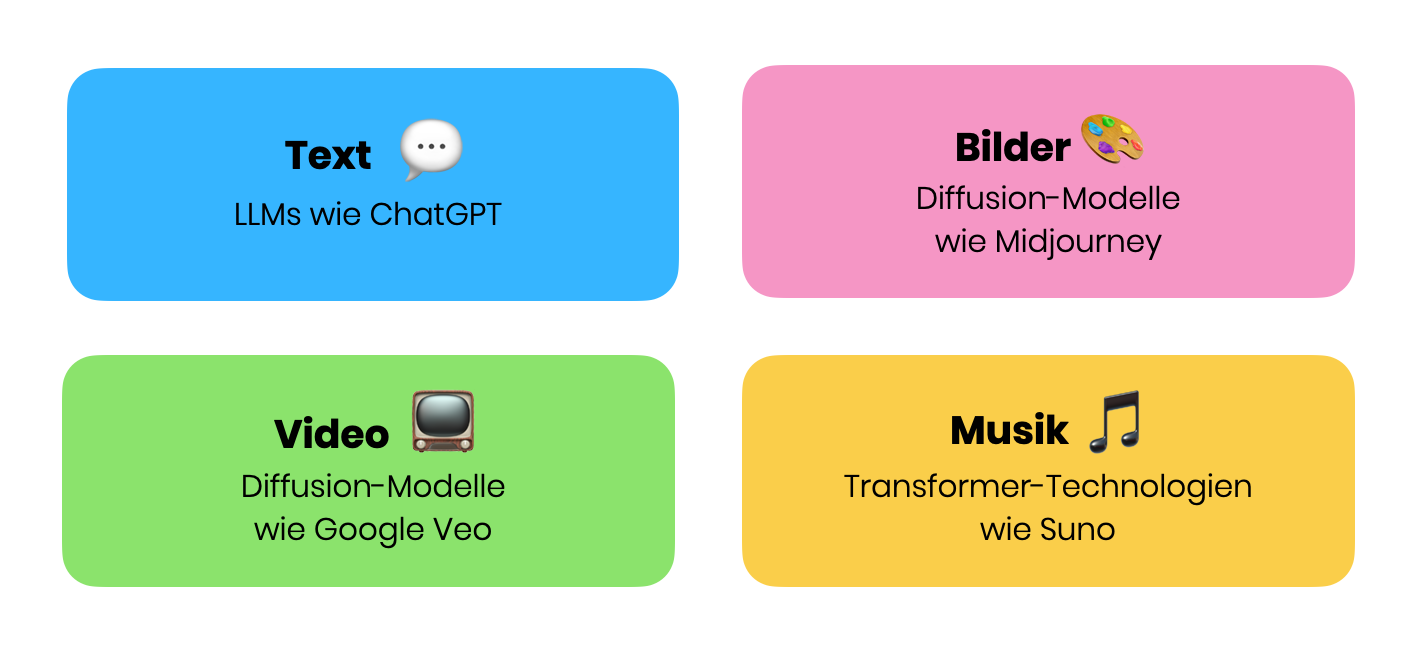
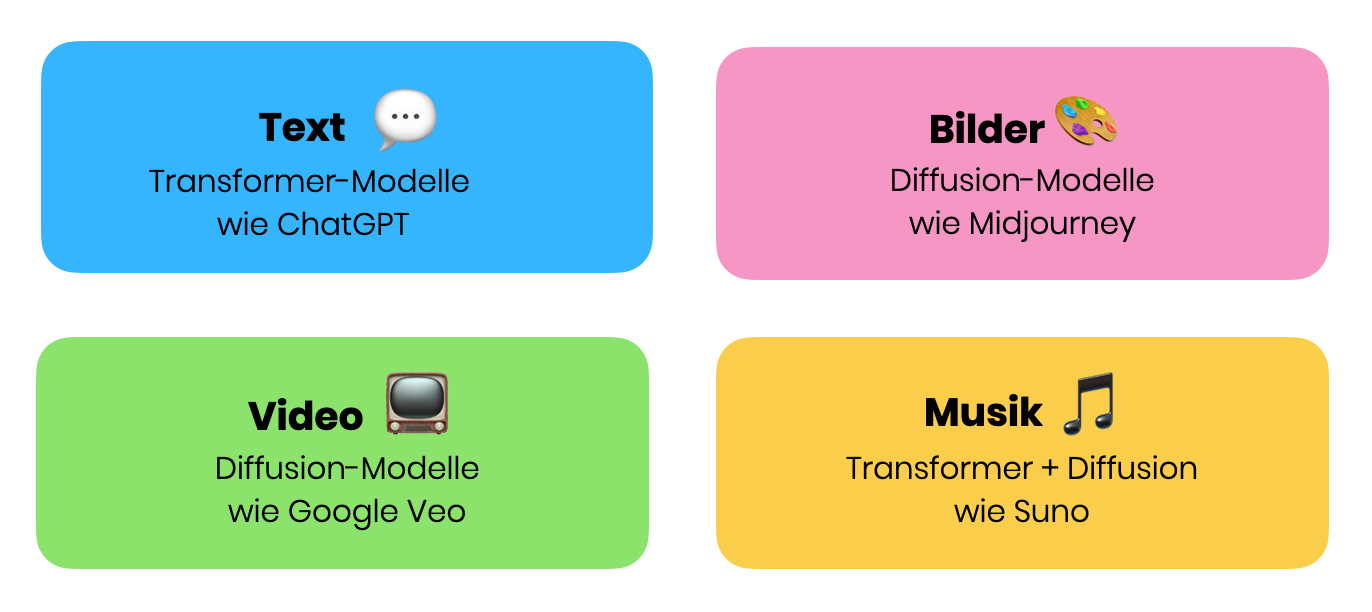
Published multiple files

diff --git a/src/site/notes/02 - Künstliche Intelligenz/0 - Final Check/KI-Sprachtechnologie.md b/src/site/notes/02 - Künstliche Intelligenz/0 - Final Check/KI-Sprachtechnologie.md
@@ -1,0 +1,94 @@
+---
+{"title":"KI-Sprachtechnologie","aliases":null,"tags":null,"gen_ai_anteil":["Claude 60%"],"created":"2026-09-03","updated":"2026-09-06","status":null,"dg-publish":true,"permalink":"/02-kuenstliche-intelligenz/0-final-check/ki-sprachtechnologie/","dgPassFrontmatter":true,"dg-note-properties":{"title":"KI-Sprachtechnologie","aliases":null,"tags":null,"gen_ai_anteil":["Claude 60%"],"created":"2026-09-03","updated":"2026-09-06","status":null}}
+---
+
+
+# KI-Sprachtechnologie
+
+KI-Sprachtechnologie ist der Oberbegriff für alle Verfahren, mit denen Maschinen gesprochene Sprache verarbeiten, verstehen oder erzeugen. Sie ist die Brücke zwischen der Stimme des Menschen und den textbasierten Systemen, mit denen Computer intern arbeiten.
+
+## *Speech* vs. *language*
+
+Das Wort „Sprache“ ist dabei doppeldeutig. Das Englische unterscheidet zwischen _language_ (Sprache als System: Text, Grammatik, Bedeutung) und _speech_ (Sprache als Gesprochenes: Stimme und Audio). „Sprachtechnologie“ kann im Deutschen beides meinen. Dieser Artikel behandelt den engen Sinn, also Speech AI; die Verarbeitung von geschriebenem Text durch große Sprachmodelle ist ein eigenes Feld.
+
+## Die wichtigsten Teilgebiete
+
+**Speech-to-Text (STT)**, auch Automatic Speech Recognition (ASR) genannt, wandelt gesprochene Sprache in geschriebenen Text um. Es ist das bekannteste Teilgebiet – Diktierfunktionen und Meeting-Transkriptionen beruhen darauf. Ein verbreitetes Modell ist Whisper von [[02 - Künstliche Intelligenz/4 - very soon/OpenAI\|OpenAI]].
+
+**Text-to-Speech (TTS)** ist der umgekehrte Weg: Text wird in natürlich klingende Sprache umgesetzt. Moderne Sprachsynthese ist kaum noch von menschlichen Sprechern zu unterscheiden.
+
+**Voice Cloning** bildet die Stimme einer konkreten Person nach, oft schon aus wenigen Sekunden Aufnahme. Wer seine Stimme durch eine Krankheit verliert, kann so weiterhin mit der eigenen Stimme sprechen. Gleichzeitig ist dieselbe Technik aber auch Grundlage für Audio-Deepfakes.
+
+**Sprechererkennung** beantwortet die Frage, wer spricht – zum Beispiel zur Authentifizierung per Stimme oder um in einer Aufnahme mehrere Personen auseinanderzuhalten.
+
+**Emotions- und Tonanalyse** wertet aus, wie etwas gesagt wird: Stimmung, Betonung, Dringlichkeit.
+
+## KI-Sprachtechnologie ist statistische KI
+
+Alle fünf Teilgebiete gehören der statistischen KI an, und zwar teils der prädiktiven, teils der generativen KI.
+
+![Statistische KI Diagramm.png](/img/user/02%20-%20K%C3%BCnstliche%20Intelligenz/0%20-%20Final%20Check/Bilder/Statistische%20KI%20Diagramm.png)
+
+| Teilgebiet               | Zuhause im Baum                         |
+| ------------------------ | --------------------------------------- |
+| Text-to-Speech (TTS)     | GenAI → Audio                           |
+| Voice Cloning            | GenAI → Audio                           |
+| Sprechererkennung        | Prädiktive KI → Klassifikation          |
+| Emotions- und Tonanalyse | Prädiktive KI → Klassifikation          |
+| Speech-to-Text (STT)     | teils Prädiktive KI, teils GenAI → Text |
+
+Die Faustregel dahinter: Kommt etwas _Neues_ heraus (eine Stimme), ist es GenAI. Kommt eine _Einordnung_ heraus (wer, welche Stimmung), ist es prädiktiv.
+
+STT ist der Mischling, weil beides zutrifft: Es ordnet ein, was gesagt wurde, aber das Ergebnis ist erzeugter Text. Modelle wie Whisper sind technisch genauso gebaut wie Übersetzer, also generativ. 
+
+## Die wichtigsten Anwendungen
+
+Die Teilgebiete sind Bausteine. Was man im Alltag als Produkt erlebt, kombiniert meist mehrere davon.
+
+### Diktieren statt Tippen
+
+Man spricht, der Computer schreibt – in jedes beliebige Textfeld, ob E-Mail, Chat oder Dokument. Moderne Tools glätten dabei gleich den Text, entfernen Füllwörter und setzen Satzzeichen. Im Kern STT; neuere Tools ergänzen ein [[02 - Künstliche Intelligenz/5 - soon (veröffentlicht)/LLMs (Large Language Models)\|Sprachmodell]] zur Nachbearbeitung.
+
+**Beispiele:** [[02 - Künstliche Intelligenz/6 - later/Wispr Flow\|Wispr Flow]], Apples Diktierfunktion, Dragon
+
+ 👉 Mehr zu [[02 - Künstliche Intelligenz/6 - later/Speech-to-Text (STT)\|Speech-to-Text (STT)]]
+
+### Meeting-Assistenten
+
+Ein Programm hört bei Videokonferenzen mit, ordnet die Beiträge den Teilnehmern zu und erstellt danach eine Zusammenfassung mit den vereinbarten Aufgaben. Kombiniert STT, Sprecherzuordnung und ein Sprachmodell.
+
+**Beispiele:** Otter, Fireflies, Microsoft Teams Copilot
+
+👉 Mehr zu [[02 - Künstliche Intelligenz/4 - very soon/Meeting Intelligence\|Meeting Intelligence]]
+
+### Sprachassistenten und Voice Agents
+
+Man spricht mit dem System wie mit einem Menschen und bekommt eine gesprochene Antwort, sei es auf dem Handy, im Sprachmodus eines Chatbots oder bei einem Telefonbot im Kundenservice. Heute meist eine Kette aus STT, Sprachmodell und TTS.
+
+**Beispiele:** Siri, Alexa
+
+### Übersetzen und Synchronisieren
+
+Gesprochene Sprache wird in Echtzeit gedolmetscht oder ein Video nachträglich in eine andere Sprache übertragen, wobei die Originalstimme erhalten bleiben kann. Kombiniert STT, Übersetzung, TTS und oft Voice Cloning.
+
+**Beispiele:** Google Translate, ElevenLabs, HeyGen
+
+### Barrierefreiheit
+
+Screenreader lesen Menschen mit eingeschränktem Sehvermögen den Bildschirm vor (TTS), Live-Transkription macht Gespräche für Hörgeschädigte lesbar (STT), und wer seine Stimme durch Krankheit verliert, kann sie vorher aufnehmen und weiter nutzen (Voice Cloning).
+
+**Beispiele:** Apple Personal Voice, Live-Untertitel in Teams und Zoom
+
+### Stimme als Passwort
+
+Beim Telefonbanking erkennt das System den Anrufer an der Stimme. Reine Sprechererkennung, die allerdings durch Voice Cloning zunehmend unter Druck gerät und als alleiniges Sicherheitsmerkmal nicht mehr ausreicht.
+
+## Was bringt die Zukunft?
+
+**Sprache ohne Umweg über Text.** Neue Modelle verarbeiten Audio direkt, ohne es erst in Text zu verwandeln. Das macht Sprachassistenten schneller und erhält, was bei einer Transkription verloren geht: Tonfall, Zögern, Ironie. Die bisherige Kette aus STT, Sprachmodell und TTS beginnt sich damit aufzulösen. Erste Sprachassistenten arbeiten heute schon so.
+
+**Sprechen mit jedem, in jeder Sprache.** Ein Ohrhörer, der ein Gespräch in Echtzeit dolmetscht, und zwar mit der eigenen Stimme des Gegenübers, nicht mit einer Computerstimme. Die Bausteine dafür existieren alle schon, und erste Produkte übersetzen Telefonate bereits mit der Originalstimme. Was noch fehlt, ist die Zuverlässigkeit im Alltag.
+
+**Stimme statt Benutzeroberfläche.** Wenn Maschinen Sprache so gut verstehen wie Menschen, braucht vieles keinen Bildschirm und keine Tastatur mehr. Ein Assistent, der Termine vereinbart, für einen anruft und Ergebnisse mündlich berichtet, ist technisch schon möglich; ob wir das wollen, ist eine andere Frage.
+
+**Die Kehrseite wächst mit:** Je perfekter Stimmen nachgebildet werden können, desto wichtiger wird es, echte von gefälschten zu unterscheiden.

diff --git a/src/site/notes/02 - Künstliche Intelligenz/0 - Final Check/Klassische KI.md b/src/site/notes/02 - Künstliche Intelligenz/0 - Final Check/Klassische KI.md
@@ -1,0 +1,79 @@
+---
+{"title":"Klassische KI","aliases":["klassische KI","symbolische KI","regelbasierte KI"],"tags":null,"gen_ai_anteil":["Gemini 20%","Claude 20%"],"created":"2026-04-07","updated":"2026-06-06","status":null,"dg-publish":true,"permalink":"/02-kuenstliche-intelligenz/0-final-check/klassische-ki/","dgPassFrontmatter":true,"dg-note-properties":{"title":"Klassische KI","aliases":["klassische KI","symbolische KI","regelbasierte KI"],"tags":null,"gen_ai_anteil":["Gemini 20%","Claude 20%"],"created":"2026-04-07","updated":"2026-06-06","status":null}}
+---
+
+# Klassische KI
+
+> [!info] **Synonyme und verwandte Begriffe**: 
+> symbolische KI, regelbasierte KI, „Good Old-Fashioned AI“ (GOFAI), wissensbasierte Systeme
+
+Viele Jahrzehnte bevor ChatGPT das Licht der Welt erblickte und einen ungeahnten KI-Hype auslöste, gab es KI schon als Forschungsfeld und entwickelte sich ohne große öffentliche Aufmerksamkeit. Ins Leben gerufen wurde sie 1956 auf der Dartmouth Conference, als sich einige Größen der Computerwissenschaften trafen und John McCarthy ihr mit dem Begriff „Artificial Intelligence“ offiziell ihren Namen gab.
+
+Die **klassische künstliche Intelligenz** basiert auf der Idee, dass Intelligenz durch **explizite Regeln und Symbole** beschrieben werden kann.
+
+- Wissen wird **formal repräsentiert** (z. B. als Regeln, Fakten, Logik)
+- **Wenn-Dann-Regeln** (oder systematisches Durchsuchen vieler Möglichkeiten)
+- Schlussfolgerungen erfolgen durch logisches Ableiten
+
+
+Typische Beispiele sind
+
+- Expertensysteme (z. B. medizinische Diagnosesysteme)
+- Logikbasierte Programme 
+- Schach (klassische Schachprogramme wie Deep Blue, das 1997 Kasparow schlug)
+
+## Formal repräsentiert
+
+In Abhandlungen über klassische KI heißt es oft, Wissen wird formal oder explizit repräsentiert. Aber was bedeutet das überhaupt?
+
+Explizit heißt: Das Wissen steht lesbar im System. Man kann hineinschauen und findet Zeile für Zeile, was das Programm „weiß“: Fakten wie „Tweety ist ein Vogel“ und Regeln wie „Vögel können fliegen“. Ein Mensch hat sie hingeschrieben, ein Mensch kann sie lesen, prüfen und korrigieren.
+
+Formal heißt hier nicht „förmlich“, sondern „auf die Form bezogen“. Das Wissen ist in einer präzisen Kunstsprache notiert, in der allein die Gestalt der Zeichen festlegt, was daraus folgt. Aus „Alle Vögel fliegen“ und „Tweety ist ein Vogel“ ergibt sich „Tweety fliegt“ – nach dem Muster „Alle A sind B, x ist A, also x ist B“. Das Muster funktioniert für beliebige A, B und x. Was ein Vogel ist, muss dafür niemand wissen.
+
+Genau das macht den Ansatz für Computer tauglich: Ein Rechner versteht nichts, er kann nur Zeichen vergleichen und nach Regeln umbauen. Ist das Wissen formal notiert, wird Schlussfolgern zu einem rein mechanischen Vorgang.
+
+Ein medizinisches Expertensystem arbeitet so: „Wenn Fieber und Husten und Rasselgeräusche, dann Verdacht auf Lungenentzündung.“ Ein Arzt würde dasselbe eher als „kommt drauf an“ mit vielen Wenn und Aber formulieren. Formalisieren heißt, dieses „kommt drauf an“ in eindeutige Bedingungen zu übersetzen – oder wegzulassen.
+
+Bei Schach gelingt das restlos. Bei Sprache, wie wir gleich sehen werden, nicht.
+
+## Einordnung: Stärken und Grenzen der regelbasierten KI 
+
+### Stark bei klaren, eindeutigen Regeln
+
+Die klassische KI spielt ihre Stärke immer dann aus, wenn sich das Vorgehen bei einem Problem vollständig in Regeln fassen lässt.
+
+Schach ist ein hochkomplexes Spiel, doch seine Regeln sind klar, eindeutig und lassen sich auf einer Seite zusammenfassen. 
+
+Die klassischen Schachprogramme – bis hin zu Deep Blue, das 1997 Weltmeister Kasparow schlug – funktionierten genau so: Menschen gaben die Regeln vor, der Computer rechnete Millionen möglicher Züge durch.
+
+### Komplexität von Sprachen: klassische KI stößt an ihre Grenzen
+
+Sprache hat Regeln – ganze Bibliotheken voll: Grammatik, Rechtschreibung, Syntax. 
+
+Die klassische KI hat jahrzehntelang versucht, Sprache über Regeln zu knacken, und ist daran  gescheitert. 
+
+#### Der Grund: Sprache lässt sich durch Regeln nicht vollständig beschreiben.
+
+Ein paar Beispiele machen das anschaulich:
+
+- „Bank“ – Geldinstitut oder Sitzgelegenheit? Keine Grammatikregel sagt es einem, nur der Kontext.
+- „Ich sah den Mann mit dem Fernglas.“ – Hatte ich das Fernglas oder er? Grammatisch beides korrekt.
+- „Das ist ja mal eine tolle Idee.“ – Ernst gemeint oder Ironie? Hängt an Tonfall, Situation, Vorgeschichte.
+- „Er hat den Löffel abgegeben.“ – Wörtlich oder gestorben? Eine Redewendung, die man einfach kennen muss.
+
+Dazu kommen Dialekte, Slang, neue Wörter, Tippfehler, unvollständige Sätze, Anspielungen. 
+
+Selbst wenn man all das in Regeln fassen wollte – niemand hat es je geschafft. 
+
+Die Regeln, die Menschen beim Sprechen tatsächlich anwenden, sind zu viele, zu vage, zu kontextabhängig und zu ausnahmenreich, als dass sie sich vollständig aufschreiben ließen. 
+
+#### Das Aufkommen eines neuen [[02 - Künstliche Intelligenz/5 - soon (veröffentlicht)/Paradigma (Denkmodell)\|Paradigmas]] 
+
+Genau an dieser Stelle setzt die statistische KI an: Sie lernt Sprache nicht über Regeln, sondern aus Milliarden von Beispielen.
+
+Die klassische KI dominierte die Forschung von den **50er bis Ende der 80er Jahre**.
+
+Danach gewannen [[02 - Künstliche Intelligenz/0 - Final Check/Statistische KI\|statistische KI]] und mit ihr [[02 - Künstliche Intelligenz/5 - soon (veröffentlicht)/Machine Learning (ML)\|Machine Learning]] zunehmend an Bedeutung. Zwar gab es mit dem **Perceptron** schon 1958 ein erstes lernfähiges neuronales Netz (die Grundidee reicht sogar bis 1943 zurück), und es wurde in den 80ern weiterentwickelt; jedoch kam der breite Durchbruch erst 2012 mit [[02 - Künstliche Intelligenz/5 - soon (veröffentlicht)/Machine Learning (ML)#Deep Learning\|Deep Learning]].
+
+
+

diff --git a/src/site/notes/02 - Künstliche Intelligenz/0 - Final Check/Statistische KI.md b/src/site/notes/02 - Künstliche Intelligenz/0 - Final Check/Statistische KI.md
@@ -1,0 +1,57 @@
+---
+{"title":"Statistische KI","aliases":["statistische KI"],"tags":null,"gen_ai_anteil":["Gemini 20%","Claude 40%"],"created":"2026-04-07","updated":"2026-06-16","status":null,"dg-publish":true,"permalink":"/02-kuenstliche-intelligenz/0-final-check/statistische-ki/","dgPassFrontmatter":true,"dg-note-properties":{"title":"Statistische KI","aliases":["statistische KI"],"tags":null,"gen_ai_anteil":["Gemini 20%","Claude 40%"],"created":"2026-04-07","updated":"2026-06-16","status":null}}
+---
+
+# Statistische KI
+
+> [!info] Synonyme und verwandte Begriffe: Datengetriebene KI, subsymbolische KI
+
+Die **statistische KI** begegnet uns heute überall – in der Sprachverarbeitung, der Bilderkennung, hinter Empfehlungssystemen.
+
+Sie beschreibt Ansätze der künstlichen Intelligenz, die auf **Wahrscheinlichkeit, Statistik und Datenanalyse** basieren – im Gegensatz zur [[02 - Künstliche Intelligenz/0 - Final Check/Klassische KI\|klassischen KI]].
+
+- Systeme lernen aus **Daten statt aus festen Regeln**
+- Modelle erkennen **Muster, Korrelationen und Wahrscheinlichkeiten**
+- Entscheidungen werden nicht strikt logisch, sondern nach Wahrscheinlichkeiten getroffen
+## Entstehung
+
+- Die mathematischen Grundlagen (Wahrscheinlichkeitsrechnung) reichen bis ins 17. Jahrhundert zurück
+- Verstärktes Interesse an statistischen Methoden in der KI ab den späten 1980er Jahren, als die klassische KI an ihre Grenzen stieß
+- Starker Aufschwung: **1990er bis heute**
+- Durchbruch: 2012 mit [[02 - Künstliche Intelligenz/5 - soon (veröffentlicht)/Machine Learning (ML)#Deep Learning\|Deep Learning]]
+
+## Warum überhaupt ein neues [[Paradigma\|Paradigma]]?
+
+Die klassische KI hat eine Grundvoraussetzung: Jemand muss das notwendige Wissen als konkrete Regeln ausformulieren. Das ist jedoch nicht immer möglich. Menschen erkennen Gesichter, verstehen Sprache und deuten Tonfall, aber sie können nicht sagen, wie. Das Wissen ist da, nur nicht in einer Form, die sich in Regeln übersetzen ließe. Die Expertensysteme der 1980er Jahre scheiterten genau daran: Selbst dort, wo Fachleute ihr Wissen zu Papier brachten, blieben die Regelwerke lückenhaft und versagten bei allem, was nicht abgedeckt war. Am Beispiel Sprache ist das im Artikel [[02 - Künstliche Intelligenz/0 - Final Check/Klassische KI#\|Klassische KI]] ausgeführt.
+
+Die statistische KI dreht das Vorgehen um. Statt dass ein Mensch die Regeln vorgibt, bekommt das System Beispiele und findet die Muster selbst. Was niemand formulieren konnte, muss so niemand mehr formulieren.
+## Voraussetzungen
+
+Die datengetriebene KI konnte ihren Siegeszug keinen Augenblick früher antreten, denn ermöglicht wurden ihr immenser Fortschritt erst durch:
+
+-  Verfügbarkeit großer Datenmengen („Big Data“)
+- Rechenleistung, um diese Datenmengen verarbeiten zu können („Compute“)
+- [[02 - Künstliche Intelligenz/5 - soon (veröffentlicht)/Algorithmus\|Algorithmen]] und Trainingsmethoden (z.B. der Durchbruch beim Training tiefer neuronaler Netze), um die vorhandenen Daten und die gegebene Rechenleistung optimal zu nutzen.
+
+![3 Voraussetzungen für statistische KI.png](/img/user/02%20-%20K%C3%BCnstliche%20Intelligenz/3%20Voraussetzungen%20f%C3%BCr%20statistische%20KI.png)
+
+
+## Klassische vs. statistische KI
+
+| Aspekt              | Klassische KI       | Statistische KI              |
+| ------------------- | ------------------- | ---------------------------- |
+| Ansatz              | Regeln & Logik      | Daten & Wahrscheinlichkeiten |
+| Wissen              | explizit modelliert | aus Daten gelernt            |
+| Flexibilität        | begrenzt            | hoch                         |
+| Nachvollziehbarkeit | hoch                | gering                       |
+
+
+## Hat die statistische KI die klassische verdrängt?
+
+Nein – heutige Anwendungen kombinieren häufig beides: 
+
+Das Sprachmodell versteht und formuliert (statistisch), während klassische Komponenten rechnen, nachschlagen oder Regeln durchsetzen (regelbasiert). Ein Chatbot, der zum Recherchieren eine Datenbank abfragt oder zum Rechnen Code ausführt, ist genau so ein Hybrid.
+
+## 📖 Weiterlesen
+
+- In diesem Zusammenhang fällt auch oft der Begriff [[02 - Künstliche Intelligenz/5 - soon (veröffentlicht)/Machine Learning (ML)\|Machine Learning (ML)]] als praktische Umsetzung der statistischen KI. [[02 - Künstliche Intelligenz/5 - soon (veröffentlicht)/Machine Learning (ML)#Neuronale Netze\|Neuronale Netze]] sind eine Unterkategorie von ML.

diff --git a/src/site/notes/02 - Künstliche Intelligenz/5 - soon (veröffentlicht)/Kahneman und KI.md b/src/site/notes/02 - Künstliche Intelligenz/5 - soon (veröffentlicht)/Kahneman und KI.md
@@ -10,11 +10,11 @@ Der Vergleich ist nicht ganz zutreffend, denn KI denkt nicht wirklich im menschl
 
 Nützlich finde ich diese Analogie aber dennoch, denn genau wie Menschen spukt die KI mit hoher Geschwindigkeit und großem Selbstbewusstsein Behauptungen aus, die sich bei genauerer Betrachtung als schlichtweg falsch erweisen. 
 
-Das trifft vor allem auf [[02 - Künstliche Intelligenz/3 - Work on tomorrow/Statistische KI\|statistische KI]] zu. [[02 - Künstliche Intelligenz/5 - soon (veröffentlicht)/LLMs (Large Language Models)\|LLMs]] haben kein Verständnis von Wahrheit, sondern liefern vielmehr *wahrscheinlich* richtige Antworten auf Grundlage der Daten, mit denen sie trainiert wurden. Dabei arbeiten sie zwar blitzschnell, man könnte fast sagen intuitiv, unterliegen aber auch logischen Fehlschlüssen: 
+Das trifft vor allem auf [[02 - Künstliche Intelligenz/0 - Final Check/Statistische KI\|statistische KI]] zu. [[02 - Künstliche Intelligenz/5 - soon (veröffentlicht)/LLMs (Large Language Models)\|LLMs]] haben kein Verständnis von Wahrheit, sondern liefern vielmehr *wahrscheinlich* richtige Antworten auf Grundlage der Daten, mit denen sie trainiert wurden. Dabei arbeiten sie zwar blitzschnell, man könnte fast sagen intuitiv, unterliegen aber auch logischen Fehlschlüssen: 
 
 "Wenn es viele behaupten, dann wird es schon wahr sein."
 
-[[02 - Künstliche Intelligenz/3 - Work on tomorrow/Klassische KI\|Klassische KI]] hingegen geht streng logisch Schritt für Schritt vor und liefert im Rahmen ihrer Möglichkeiten zuverlässige Ergebnisse. 
+[[02 - Künstliche Intelligenz/0 - Final Check/Klassische KI\|Klassische KI]] hingegen geht streng logisch Schritt für Schritt vor und liefert im Rahmen ihrer Möglichkeiten zuverlässige Ergebnisse. 
 
 Damit ähnelt sie System 2 - allerdings mit einem wichtigen Unterschied: Diese Form von KI zweifelt nie an den eigenen Denkprozessen; sie folgt den ihr einprogrammierten Regeln blind, ohne die Fähigkeit, die eigenen Prämissen zu hinterfragen. Mit anderen Worten, ihr fehlt die Fähigkeit zur [[02 - Künstliche Intelligenz/Obsidian/Denken auf Papier#Metakognition\|Metakognition]].
 

diff --git a/src/site/notes/02 - Künstliche Intelligenz/5 - soon (veröffentlicht)/Kaninchen-Einstiegszone.md b/src/site/notes/02 - Künstliche Intelligenz/5 - soon (veröffentlicht)/Kaninchen-Einstiegszone.md
@@ -42,7 +42,7 @@ Hier könnte ihr einige meiner Empfehlungen entdecken:
 
 ### Alternative LLMs 🕳🐇
 
- [[02 - Künstliche Intelligenz/Künstliche Intelligenz\|KI]] begleitet uns schon lange, aber erst der Durchbruch der [[02 - Künstliche Intelligenz/5 - soon (veröffentlicht)/LLMs (Large Language Models)\|Large Language Models]] - eine Form der [[02 - Künstliche Intelligenz/3 - Work on tomorrow/Statistische KI\|statistischen KI]] -  hat sie ins Rampenlicht gerückt. [[02 - Künstliche Intelligenz/5 - soon (veröffentlicht)/ChatGPT\|ChatGPT]] hat den Start gemacht und unverkennbar einen Hype ausgelöst. Aber machen wir uns nichts vor: die [[02 - Künstliche Intelligenz/5 - soon (veröffentlicht)/Kritik an GenAI\|Kritik]] an [[02 - Künstliche Intelligenz/1 - Work on now/GenAI\|generativer KI]] ist absolut berechtigt! 
+ [[02 - Künstliche Intelligenz/Künstliche Intelligenz\|KI]] begleitet uns schon lange, aber erst der Durchbruch der [[02 - Künstliche Intelligenz/5 - soon (veröffentlicht)/LLMs (Large Language Models)\|Large Language Models]] - eine Form der [[02 - Künstliche Intelligenz/0 - Final Check/Statistische KI\|statistischen KI]] -  hat sie ins Rampenlicht gerückt. [[02 - Künstliche Intelligenz/5 - soon (veröffentlicht)/ChatGPT\|ChatGPT]] hat den Start gemacht und unverkennbar einen Hype ausgelöst. Aber machen wir uns nichts vor: die [[02 - Künstliche Intelligenz/5 - soon (veröffentlicht)/Kritik an GenAI\|Kritik]] an [[02 - Künstliche Intelligenz/1 - Work on now/GenAI\|generativer KI]] ist absolut berechtigt! 
 
 Ich denke, ihre negativen Seiten sind keineswegs ein inhärentes Merkmal dieser Technologie, sondern vielmehr systemischer Natur: unvermeidliche Begleiterscheinung, wenn wir profit- und machtorientierten Konzernen freies Spiel lassen. Aus diesem Grund recherchiere und teste ich viel, ob wir denn tatsächlich auf diese [[02 - Künstliche Intelligenz/5 - soon (veröffentlicht)/Open Source vs Proprietär\|proprietären]] Riesen angewiesen sind. 
  

diff --git a/src/site/notes/02 - Künstliche Intelligenz/1 - Work on now/GenAI.md b/src/site/notes/02 - Künstliche Intelligenz/1 - Work on now/GenAI.md
@@ -4,9 +4,9 @@
 
 #  Was ist Generative KI?
 
-Generative KI (GenAI) ist eine Form der [[02 - Künstliche Intelligenz/3 - Work on tomorrow/Statistische KI\|statistischen KI]]. Sie basiert auf komplexen Algorithmen, die große Datenmengen analysieren, um Muster zu erkennen und daraus neue Inhalte zu erzeugen – sei es Text, Bilder, Musik oder sogar Videos. 
+Generative KI (GenAI) ist eine Form der [[02 - Künstliche Intelligenz/0 - Final Check/Statistische KI\|statistischen KI]]. Sie basiert auf komplexen Algorithmen, die große Datenmengen analysieren, um Muster zu erkennen und daraus neue Inhalte zu erzeugen – sei es Text, Bilder, Musik oder sogar Videos. 
 
-Im Gegensatz zu [[02 - Künstliche Intelligenz/3 - Work on tomorrow/Klassische KI\|klassischen KI-Systemen]], die auf festen Regeln basieren, kann GenAI kreativ sein: Sie erzeugt neue, gelegentlich sogar originelle Inhalte – basierend auf den Mustern, die sie aus den Trainingsdaten gelernt hat.
+Im Gegensatz zu [[02 - Künstliche Intelligenz/0 - Final Check/Klassische KI\|klassischen KI-Systemen]], die auf festen Regeln basieren, kann GenAI kreativ sein: Sie erzeugt neue, gelegentlich sogar originelle Inhalte – basierend auf den Mustern, die sie aus den Trainingsdaten gelernt hat.
 
 Die Technologie hinter GenAI sind meist neuronale Netze, insbesondere [Transformermodelle](Transformer), die durch [[02 - Künstliche Intelligenz/5 - soon (veröffentlicht)/Machine Learning (ML)\|maschinelles Lernen]] trainiert werden. Die bekannteste Ausprägung sind [[02 - Künstliche Intelligenz/5 - soon (veröffentlicht)/LLMs (Large Language Models)\|Large Language Models (LLMs)]]: Transformermodelle, die mit riesigen Textmengen trainiert wurden und Sprache Wort für Wort erzeugen. Sie stecken hinter Chatbots wie ChatGPT. Bei Bild, Video und Ton kommt ein zusätzliches Verfahren dazu: [[02 - Künstliche Intelligenz/4 - very soon/Diffusion-Modelle\|Diffusion]].
 

diff --git a/src/site/notes/02 - Künstliche Intelligenz/5 - soon (veröffentlicht)/Paradigma (Denkmodell).md b/src/site/notes/02 - Künstliche Intelligenz/5 - soon (veröffentlicht)/Paradigma (Denkmodell).md
@@ -14,7 +14,7 @@ Ein Paradigma ist der grundlegende Denkrahmen, durch den eine Gruppe oder ein Fa
 
 Den heutigen Sinn prägte der Wissenschaftstheoretiker Thomas Kuhn. Sein Punkt: Felder entwickeln sich nicht nur Schritt für Schritt weiter, sondern springen manchmal in einen ganz neuen Denkrahmen. 
 
-Ein Beispiel ist der Wandel von der [[02 - Künstliche Intelligenz/3 - Work on tomorrow/Klassische KI\|klassischen KI]]  (regelbasiert: Wissen und Regeln werden von Hand programmiert) hin zur [[02 - Künstliche Intelligenz/3 - Work on tomorrow/Statistische KI\|statistischen KI]] (das System lernt Muster selbst aus Daten). Dieselbe Aufgabe - eine Maschine soll intelligent handeln -, aber eine völlig andere Grundannahme darüber, woher dieses Können kommt. Genau das ist ein Paradigmenwechsel: Nicht ein Detail ändert sich, sondern die Brille, durch die alles betrachtet wird.
+Ein Beispiel ist der Wandel von der [[02 - Künstliche Intelligenz/0 - Final Check/Klassische KI\|klassischen KI]]  (regelbasiert: Wissen und Regeln werden von Hand programmiert) hin zur [[02 - Künstliche Intelligenz/0 - Final Check/Statistische KI\|statistischen KI]] (das System lernt Muster selbst aus Daten). Dieselbe Aufgabe - eine Maschine soll intelligent handeln -, aber eine völlig andere Grundannahme darüber, woher dieses Können kommt. Genau das ist ein Paradigmenwechsel: Nicht ein Detail ändert sich, sondern die Brille, durch die alles betrachtet wird.
 
 > [!tip] Im Kern  
 > Ein Paradigma ist keine einzelne Methode, sondern die Grundhaltung dahinter - die Spielregeln, die bestimmen, welche Methoden überhaupt sinnvoll erscheinen.

diff --git a/src/site/notes/02 - Künstliche Intelligenz/Künstliche Intelligenz.md b/src/site/notes/02 - Künstliche Intelligenz/Künstliche Intelligenz.md
@@ -23,7 +23,7 @@ Die klassische KI machte den Anfang und dominierte die Forschung von den **1950e
 - Regelbasierte Systeme (Expertensysteme)
 - Such- und Planungsverfahren
 
-👉 Mehr lesen über [[02 - Künstliche Intelligenz/3 - Work on tomorrow/Klassische KI\|Klassische KI]]
+👉 Mehr lesen über [[02 - Künstliche Intelligenz/0 - Final Check/Klassische KI\|Klassische KI]]
 
 ## Statistische KI
 
@@ -35,10 +35,10 @@ Diese Art von künstlicher Intelligenz ist meistens gemeint, wenn von „KI“ d
 
 - Prädiktive KI
 - [[02 - Künstliche Intelligenz/1 - Work on now/GenAI\| Generative KI (GenAI)]] inkl. [[02 - Künstliche Intelligenz/5 - soon (veröffentlicht)/LLMs (Large Language Models)\|LLMs (Large Language Models)]] wie ChatGPT
-- Teils prädiktive, teils generativ: [[02 - Künstliche Intelligenz/3 - Work on tomorrow/KI-Sprachtechnologie\| KI-Sprachtechnologie]] inkl. [[02 - Künstliche Intelligenz/6 - later/Speech-to-Text (STT)\|Speech-to-Text (STT)]]
+- Teils prädiktive, teils generativ: [[02 - Künstliche Intelligenz/0 - Final Check/KI-Sprachtechnologie\| KI-Sprachtechnologie]] inkl. [[02 - Künstliche Intelligenz/6 - later/Speech-to-Text (STT)\|Speech-to-Text (STT)]]
 
 
-👉 Mehr lesen über [[02 - Künstliche Intelligenz/3 - Work on tomorrow/Statistische KI\|Statistische KI]]
+👉 Mehr lesen über [[02 - Künstliche Intelligenz/0 - Final Check/Statistische KI\|Statistische KI]]
 
 
 

diff --git a/src/site/notes/02 - Künstliche Intelligenz/5 - soon (veröffentlicht)/Machine Learning (ML).md b/src/site/notes/02 - Künstliche Intelligenz/5 - soon (veröffentlicht)/Machine Learning (ML).md
@@ -4,7 +4,7 @@
 
 # Was ist Machine Learning (ML)?
 
-Machine Learning (ML) ist keine eigenständige Disziplin, sondern Teil eines größeren Denkmodells: der [[02 - Künstliche Intelligenz/3 - Work on tomorrow/Statistische KI\|statistischen KI]]. Es setzt dieses [[02 - Künstliche Intelligenz/5 - soon (veröffentlicht)/Paradigma (Denkmodell)\|Paradigma]] in konkrete [[02 - Künstliche Intelligenz/5 - soon (veröffentlicht)/Algorithmus\|Algorithmus]] um - Verfahren, die aus Daten lernen, statt nach vorgegebenen Regeln zu arbeiten.
+Machine Learning (ML) ist keine eigenständige Disziplin, sondern Teil eines größeren Denkmodells: der [[02 - Künstliche Intelligenz/0 - Final Check/Statistische KI\|statistischen KI]]. Es setzt dieses [[02 - Künstliche Intelligenz/5 - soon (veröffentlicht)/Paradigma (Denkmodell)\|Paradigma]] in konkrete [[02 - Künstliche Intelligenz/5 - soon (veröffentlicht)/Algorithmus\|Algorithmus]] um - Verfahren, die aus Daten lernen, statt nach vorgegebenen Regeln zu arbeiten.
 
 ## Statistische KI ist ein Paradigma
 

diff --git a/src/site/notes/02 - Künstliche Intelligenz/5 - soon (veröffentlicht)/LLMs (Large Language Models).md b/src/site/notes/02 - Künstliche Intelligenz/5 - soon (veröffentlicht)/LLMs (Large Language Models).md
@@ -4,7 +4,7 @@
 
 # LLMs (Large Language Models)
 
-Large Language Models - oder zu deutsch: große Sprachmodelle - ist die Bezeichnung für die Modelle hinter Sprachbots wie ChatGPT. Es handelt sich um eine Unterkategorie der [[02 - Künstliche Intelligenz/3 - Work on tomorrow/Statistische KI\|statistischen KI]], welche mit Menschen in **natürlicher Sprache** kommunizieren kann.
+Large Language Models - oder zu deutsch: große Sprachmodelle - ist die Bezeichnung für die Modelle hinter Sprachbots wie ChatGPT. Es handelt sich um eine Unterkategorie der [[02 - Künstliche Intelligenz/0 - Final Check/Statistische KI\|statistischen KI]], welche mit Menschen in **natürlicher Sprache** kommunizieren kann.
 
 Nehmen wir das Wort einmal auseinander, um die Bedeutung besser zu verstehen: 
 ## Large 
